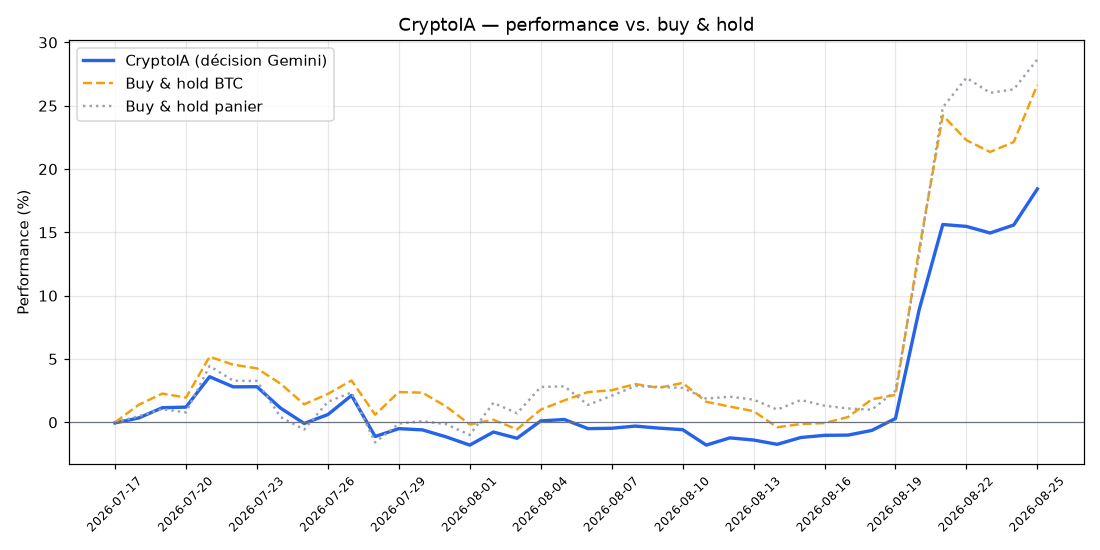
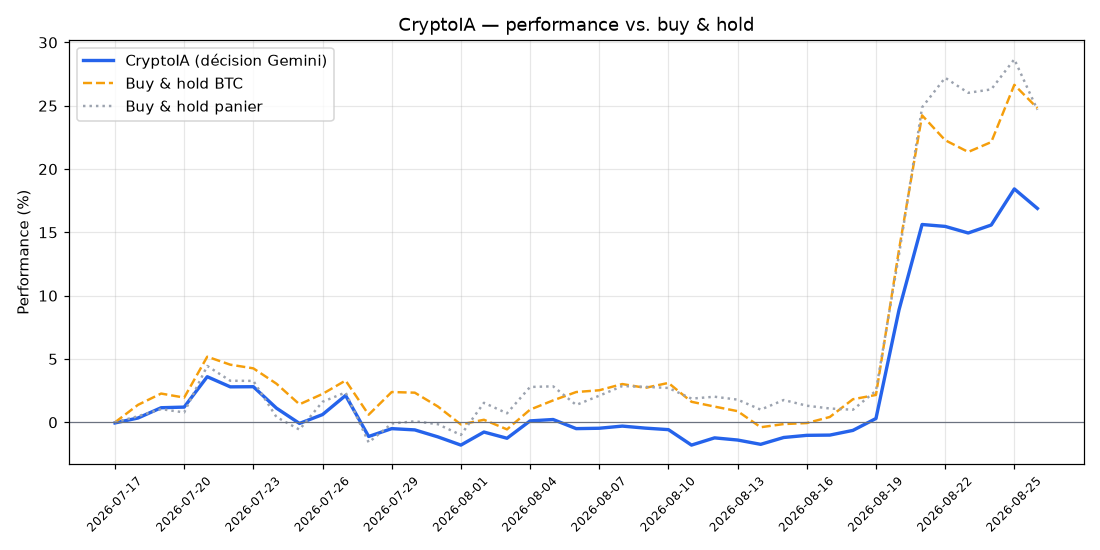
Passage CryptoIA 2026-08-26

diff --git a/daily_report.md b/daily_report.md
@@ -1,27 +1,27 @@
-# 🪙 CryptoIA — rapport du 2026-08-25
+# 🪙 CryptoIA — rapport du 2026-08-26
 
 ## Tableau de bord
-- **NAV** : 1,184.35 $ (+18.43 % depuis le départ)
-- **Cash** : 406.48 $ | **Frais cumulés** : 9.75 $
-- **Buy & hold BTC** : +26.65 % | **Buy & hold panier** : +28.67 %
-- **Verdict** : ❌ BTC en buy & hold fait mieux (-8.22 points d'écart)
+- **NAV** : 1,168.87 $ (+16.89 % depuis le départ)
+- **Cash** : 351.20 $ | **Frais cumulés** : 10.04 $
+- **Buy & hold BTC** : +24.81 % | **Buy & hold panier** : +24.68 %
+- **Verdict** : ❌ BTC en buy & hold fait mieux (-7.92 points d'écart)
 
 ## Allocation actuelle
-- Bitcoin (BTC) : 30.0 % (355.33 $)
-- Solana (SOL) : 15.7 % (185.60 $)
-- Ethereum (ETH) : 15.0 % (177.70 $)
-- Chainlink (LINK) : 5.0 % (59.23 $)
-- Cash : 34.3 % (406.48 $)
+- Bitcoin (BTC) : 30.0 % (350.18 $)
+- Ethereum (ETH) : 20.0 % (233.77 $)
+- Solana (SOL) : 10.0 % (116.92 $)
+- BNB : 10.0 % (116.80 $)
+- Cash : 30.0 % (351.20 $)
 
 ## Décision de l'IA aujourd'hui
-- **Régime perçu** : risk_on
-- **Commentaire** : L'impulsion haussière est extrêmement forte avec un Bitcoin franchissant les 80 000 $ suite à un violent 'short squeeze'. Bien que le momentum justifie un régime actif, la verticalité du mouvement exige de la prudence : je sécurise 35 % de liquidités pour consolider les gains et absorber un potentiel repli technique, tout en misant sur les leaders résilients.
+- **Régime perçu** : neutre
+- **Commentaire** : Après un puissant rallye de 7 jours propulsant le BTC aux portes des 80 000 $, le repli généralisé des dernières 24h indique des prises de profits et une résistance technique. Je lève 30 % de cash par prudence face au risque de surchauffe à court terme, tout en conservant 70 % d'exposition sur les leaders (BTC, ETH, BNB, SOL) pour accompagner la tendance de fond.
 
 ## Ordres exécutés (rééquilibrage)
-- VENTE Chainlink (LINK) — 57.29 $ (frais 0.06 $)
-- VENTE Ethereum (ETH) — 56.16 $ (frais 0.06 $)
-- VENTE XRP — 117.89 $ (frais 0.12 $)
-- ACHAT Bitcoin (BTC) — 55.63 $ (frais 0.06 $)
+- VENTE Solana (SOL) — 61.90 $ (frais 0.06 $)
+- VENTE Chainlink (LINK) — 57.80 $ (frais 0.06 $)
+- ACHAT Ethereum (ETH) — 57.95 $ (frais 0.06 $)
+- ACHAT BNB — 116.92 $ (frais 0.12 $)
 
 ---
 *Marche à blanc, aucun argent réel. Rien ici ne constitue un conseil d'investissement.*
